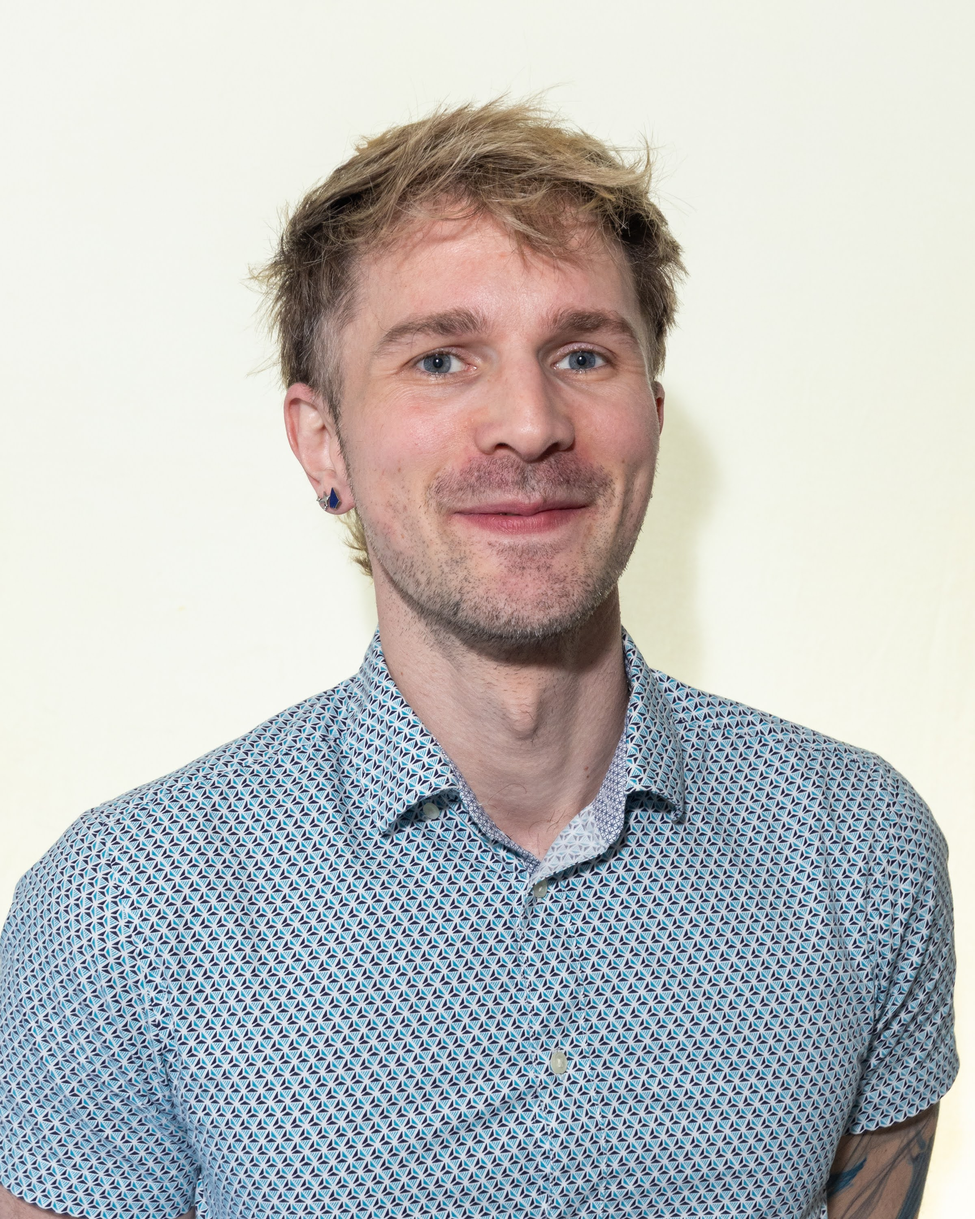
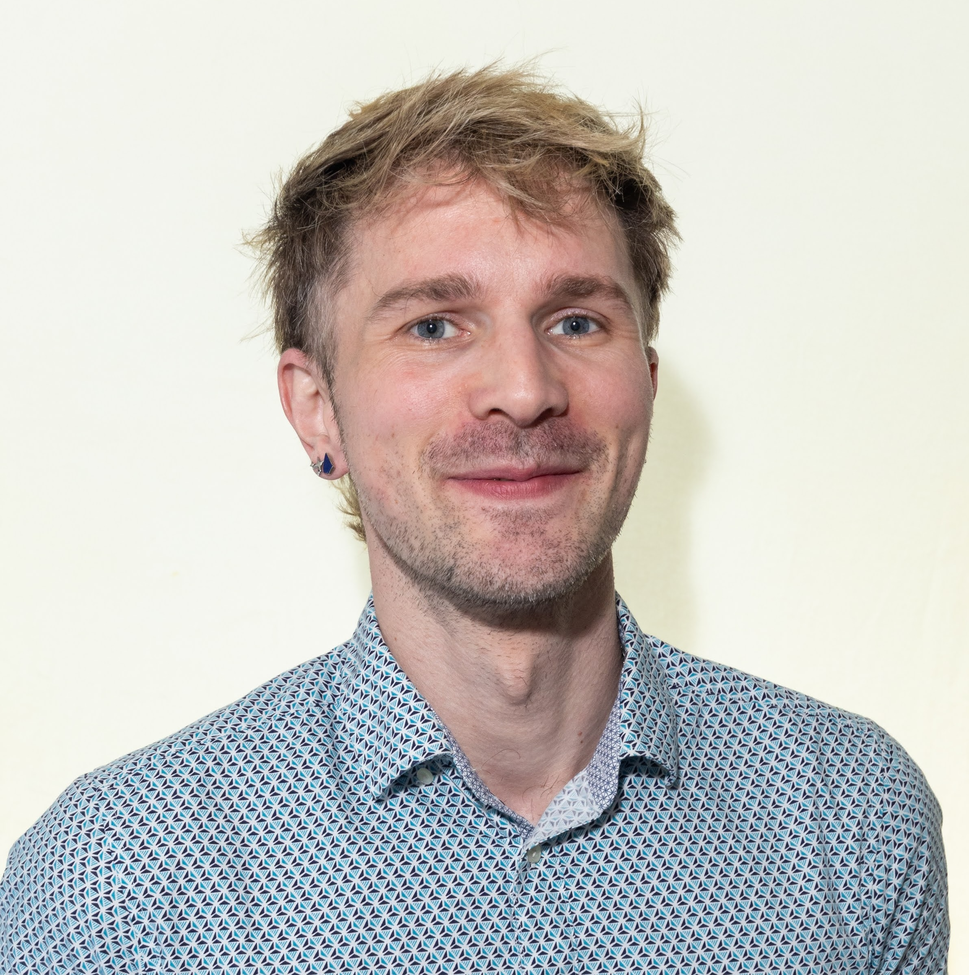
updated photo

diff --git a/index.md b/index.md
@@ -6,7 +6,7 @@ layout: default
 
 {::nomarkdown}
 <figure class="site-profile">
-    <img src="{{ site.baseurl }}/assets/img/me.jpg">
+    <img src="{{ site.baseurl }}/assets/img/ImperialHeadshots_0514.jpg">
 </figure>
 {:/}
 Hi there! I am **Boris Leistedt**, a researcher in Imperial College London, working in the fields of astronomy, cosmology, and statistics. Broadly speaking, I test models of the universe using data collected with satellites and telescopes. I also care a lot about diversity, inclusivity, and equity in sciences and society.
